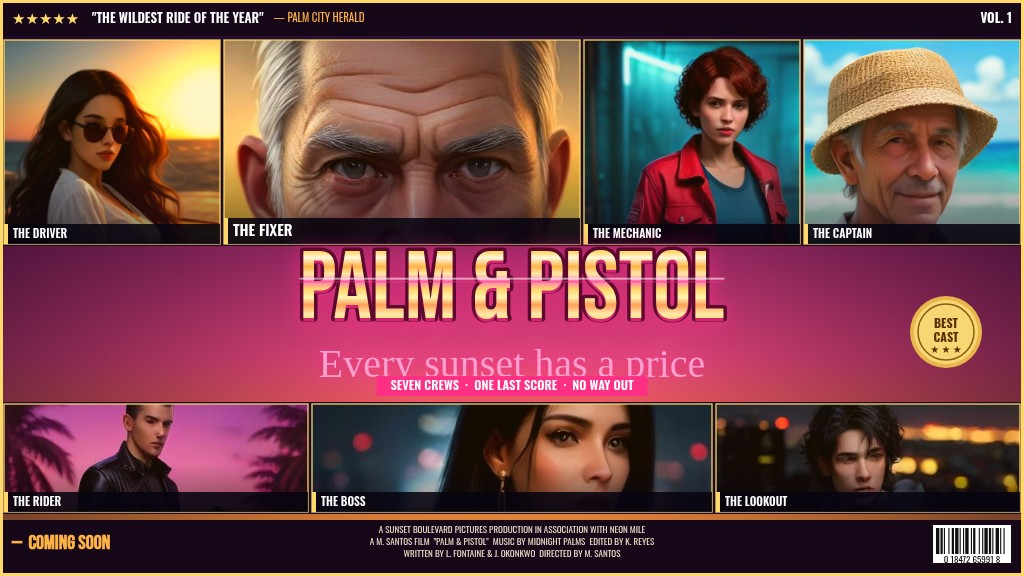
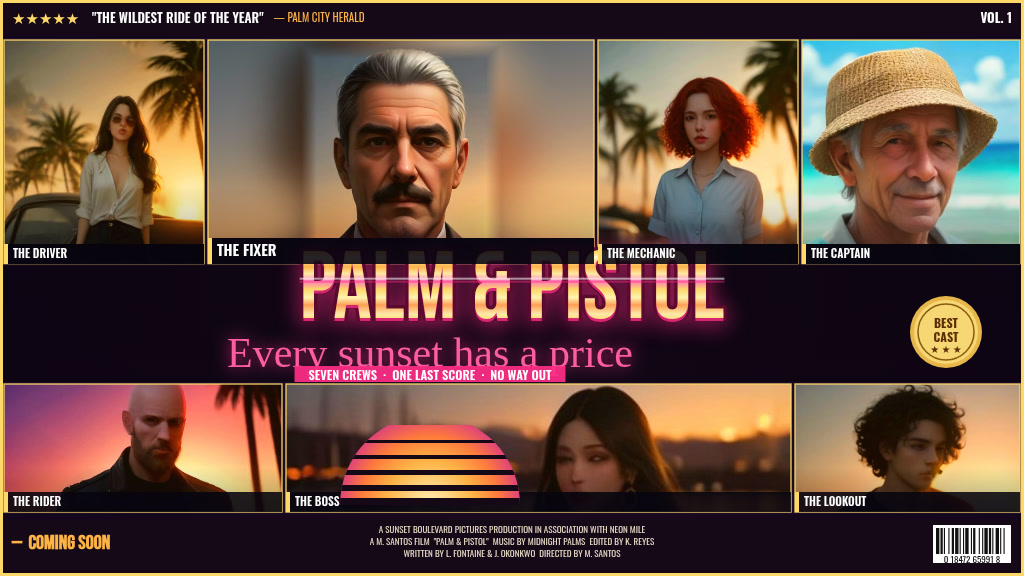
Remake poster to top-rank style: 6 new character photos, sunset backgrounds, tighter spacing, hero face fully visible

diff --git a/app/src/cover.js b/app/src/cover.js
@@ -25,17 +25,33 @@
     { id: 'lookout',  label: 'THE LOOKOUT',  row: 1, hero: false },
   ];
 
-  // Face focal points (fractions of the sample photo, 512 x 612).
-  // Every sample photo is a portrait with the face in the upper third;
-  // the crop window is centred on the focal point so the face is never cut.
+  // Face focal points (fractions of the sample photo, 512 x 640, except
+  // fixer/captain at 512 x 612). These are HEAD centres: the crop window
+  // is centred on the head, and the focal y is chosen so the hair top
+  // stays inside the window with a clear margin — no head or hair may
+  // touch or cross a panel's top edge. The window is already the largest
+  // rect with the panel's aspect ratio (see coverRect), so the fix is
+  // the placement: centre on the head, never on the chin or chest.
+  // Measured head boxes (photo fractions, measured from the full-size
+  // photos, not thumbnails): driver hair top 0.18, eyes 0.28, chin
+  // 0.38; fixer hair top 0.03, eyes 0.33, chin 0.70 (photo padded to
+  // 760 wide so the crop window is tall enough for the face — focal y
+  // 0.355 centres the window on the face, chin sits behind the tag);
+  // mechanic 0.08/0.28/0.42; captain (hat) 0.02/0.55; rider 0.22/0.33/
+  // 0.47; boss hair top 0.13, eyes 0.20, chin 0.28 (wide shot, small
+  // face — the only way a whole face fits the very wide centre panel);
+  // lookout 0.16/0.33/0.48.
+  // BOSS face sits RIGHT of centre (x 0.59): the retro sunset sun
+  // overlaps the centre panel's left side, so her face must stay clear
+  // of it — the reference puts her face on the panel's right.
   var FOCAL = {
-    driver:   { x: 0.42, y: 0.30 },
-    fixer:    { x: 0.50, y: 0.34 },
-    mechanic: { x: 0.50, y: 0.30 },
-    captain:  { x: 0.56, y: 0.38 },
-    rider:    { x: 0.46, y: 0.27 },
-    boss:     { x: 0.52, y: 0.33 },
-    lookout:  { x: 0.56, y: 0.32 },
+    driver:   { x: 0.52, y: 0.28 },
+    fixer:    { x: 0.50, y: 0.45 },
+    mechanic: { x: 0.48, y: 0.28 },
+    captain:  { x: 0.56, y: 0.28 },
+    rider:    { x: 0.50, y: 0.46 },
+    boss:     { x: 0.59, y: 0.24 },
+    lookout:  { x: 0.52, y: 0.38 },
   };
 
   // Five colour grades. `filter` is a canvas 2D filter string applied when
@@ -117,10 +133,12 @@
       ctx.fillStyle = g.wash;
       ctx.fillRect(rect.x, rect.y, rect.w, rect.h);
     }
-    // Warm bottom shade so the name tag stays readable.
-    var shade = ctx.createLinearGradient(0, rect.y + rect.h * 0.55, 0, rect.y + rect.h);
+    // Warm bottom shade so the name tag stays readable. Kept light
+    // (0.35 max, starting at 65% height) so faces in the lower half
+    // stay visible — the old 0.55 shade swallowed chins.
+    var shade = ctx.createLinearGradient(0, rect.y + rect.h * 0.65, 0, rect.y + rect.h);
     shade.addColorStop(0, 'rgba(10,4,20,0)');
-    shade.addColorStop(1, 'rgba(10,4,20,0.55)');
+    shade.addColorStop(1, 'rgba(10,4,20,0.35)');
     ctx.fillStyle = shade;
     ctx.fillRect(rect.x, rect.y, rect.w, rect.h);
     ctx.restore();
@@ -195,6 +213,43 @@
     ctx.restore();
   }
 
+  // Retro striped sun: a setting-sun dome with horizontal slats cut
+  // through it, centred slightly left of middle under the tagline.
+  // It is drawn AFTER the bottom row so it sits in front of the centre
+  // panel's left side, the way the reference sun sits in front of the
+  // BOSS panel — her face is on the panel's right, clear of it.
+  function drawSunsetSun(ctx, s) {
+    var cx = 430 * s, horizon = 505 * s, r = 90 * s;
+    ctx.save();
+    // Clip to the band so nothing spills into the billing block.
+    ctx.beginPath();
+    ctx.rect(315 * s, 425 * s, 230 * s, 80 * s);
+    ctx.clip();
+    var g = ctx.createRadialGradient(cx, horizon, 6 * s, cx, horizon, r);
+    g.addColorStop(0, '#ffe9a8');
+    g.addColorStop(0.45, '#ffb347');
+    g.addColorStop(0.75, '#ff7a3d');
+    g.addColorStop(1, '#e0437a');
+    ctx.fillStyle = g;
+    ctx.beginPath();
+    ctx.arc(cx, horizon, r, Math.PI, 0);
+    ctx.closePath();
+    ctx.fill();
+    // Cut the slats through the dome only: re-clip to the dome shape.
+    ctx.save();
+    ctx.beginPath();
+    ctx.arc(cx, horizon, r, Math.PI, 0);
+    ctx.closePath();
+    ctx.clip();
+    var slats = [[440, 3], [455, 4], [470, 5], [485, 6], [498, 7]];
+    ctx.fillStyle = '#160818';
+    for (var i = 0; i < slats.length; i++) {
+      ctx.fillRect(315 * s, slats[i][0] * s, 230 * s, slats[i][1] * s);
+    }
+    ctx.restore();
+    ctx.restore();
+  }
+
   function drawSeal(ctx, s) {
     var cx = 946 * s, cy = 332 * s, r = 36 * s;
     ctx.save();
@@ -248,13 +303,12 @@
     var s = width / BASE_W;
     var W = BASE_W * s, H = BASE_H * s;
 
-    // --- backdrop: sunset gradient + vignette ---------------------------
+    // --- backdrop: near-black, like the reference — the panels carry the
+    // colour. The old magenta sunset gradient left a tall empty band.
     var bg = ctx.createLinearGradient(0, 0, 0, H);
-    bg.addColorStop(0.00, '#2b0f3d');
-    bg.addColorStop(0.35, '#7a1e5c');
-    bg.addColorStop(0.62, '#e0437a');
-    bg.addColorStop(0.82, '#ff7a3d');
-    bg.addColorStop(1.00, '#ffb347');
+    bg.addColorStop(0.00, '#1c0a26');
+    bg.addColorStop(0.50, '#160818');
+    bg.addColorStop(1.00, '#200a24');
     ctx.fillStyle = bg;
     ctx.fillRect(0, 0, W, H);
     var vig = ctx.createRadialGradient(W / 2, H * 0.45, H * 0.3, W / 2, H * 0.5, H * 0.95);
@@ -286,8 +340,10 @@
     ctx.textAlign = 'left';
 
     // --- top row: 4 panels, FIXER is the wide hero -----------------------
-    var topY = 40 * s, topH = 204 * s;
-    var topWidths = [216, 356, 216, 216];
+    // Taller than before (224 vs 204) so the title can overlap its bottom
+    // edge the way the reference does, instead of floating in a band.
+    var topY = 40 * s, topH = 224 * s;
+    var topWidths = [200, 386, 200, 218];
     var x = 4 * s;
     var topRects = [];
     for (var i = 0; i < 4; i++) {
@@ -299,34 +355,53 @@
       drawPanel(ctx, s, images[ROLES[i].id], ROLES[i], topRects[i], state.grade);
     }
 
+    // --- middle band: dark, like the reference (the title overlaps the
+    // top row; the script/tagline sit in the dark band, centred slightly
+    // left of middle so the BOSS face on the right stays clear) ----------
+    ctx.save();
+    ctx.fillStyle = 'rgba(12,4,18,0.55)';
+    ctx.fillRect(0, 264 * s, W, 120 * s);
+    ctx.restore();
+
     // --- title band (overlaps the top row's bottom edge) -----------------
     drawTitle(ctx, s, state);
+    // Name tags back on top: the title overlaps the top row's bottom
+    // edge, and the tags must stay readable over the title letters,
+    // the way the reference draws THE FIXER over SUNDOWN RACKET.
+    for (i = 0; i < 4; i++) {
+      drawNameTag(ctx, s, topRects[i].x, topRects[i].y + topRects[i].h,
+        topRects[i].w, ROLES[i].label, ROLES[i].hero);
+    }
 
     // --- subtitle script + tagline strip ----------------------------------
+    // Bright neon pink (the old #ff9ecf washed out on the magenta band).
+    var midX = 430 * s;
     ctx.save();
     ctx.textAlign = 'center';
-    ctx.fillStyle = '#ff9ecf';
-    ctx.shadowColor = 'rgba(255,46,136,0.8)';
-    ctx.shadowBlur = 12 * s;
-    ctx.font = 40 * s + 'px "Great Vibes", cursive';
-    ctx.fillText(state.subtitle, W / 2, 366 * s);
+    ctx.fillStyle = '#ff5da2';
+    ctx.shadowColor = 'rgba(255,46,136,0.9)';
+    ctx.shadowBlur = 16 * s;
+    ctx.font = 42 * s + 'px "Great Vibes", cursive';
+    ctx.fillText(state.subtitle, midX, 356 * s);
     ctx.restore();
     var tag = state.tagline;
     ctx.save();
     ctx.font = '600 ' + 12.5 * s + 'px Oswald, sans-serif';
     var tagW = ctx.measureText(tag).width + 28 * s;
     ctx.fillStyle = 'rgba(255,46,136,0.92)';
-    var tagX = W / 2 - tagW / 2, tagY = 376 * s;
+    var tagX = midX - tagW / 2, tagY = 366 * s;
     ctx.fillRect(tagX, tagY, tagW, 20 * s);
     ctx.fillStyle = '#ffffff';
     ctx.textAlign = 'center';
     ctx.textBaseline = 'middle';
-    ctx.fillText(tag, W / 2, tagY + 10.5 * s);
+    ctx.fillText(tag, midX, tagY + 10.5 * s);
     ctx.restore();
 
     // --- bottom row: 3 panels, BOSS is the wide centre --------------------
-    var botY = 404 * s, botH = 108 * s;
-    var botWidths = [304, 400, 304];
+    // Taller (128 vs 108) and starts right under the tagline, so the row
+    // packs tight against the middle band like the reference.
+    var botY = 384 * s, botH = 128 * s;
+    var botWidths = [278, 505, 225];
     x = 4 * s;
     var botRects = [];
     for (i = 0; i < 3; i++) {
@@ -337,6 +412,9 @@
     for (i = 0; i < 3; i++) {
       drawPanel(ctx, s, images[ROLES[4 + i].id], ROLES[4 + i], botRects[i], state.grade);
     }
+
+    // --- retro sunset sun (in front of the BOSS panel's left side) -------
+    drawSunsetSun(ctx, s);
 
     // --- gold seal (overlaps title band / bottom row, right side) --------
     drawSeal(ctx, s);
